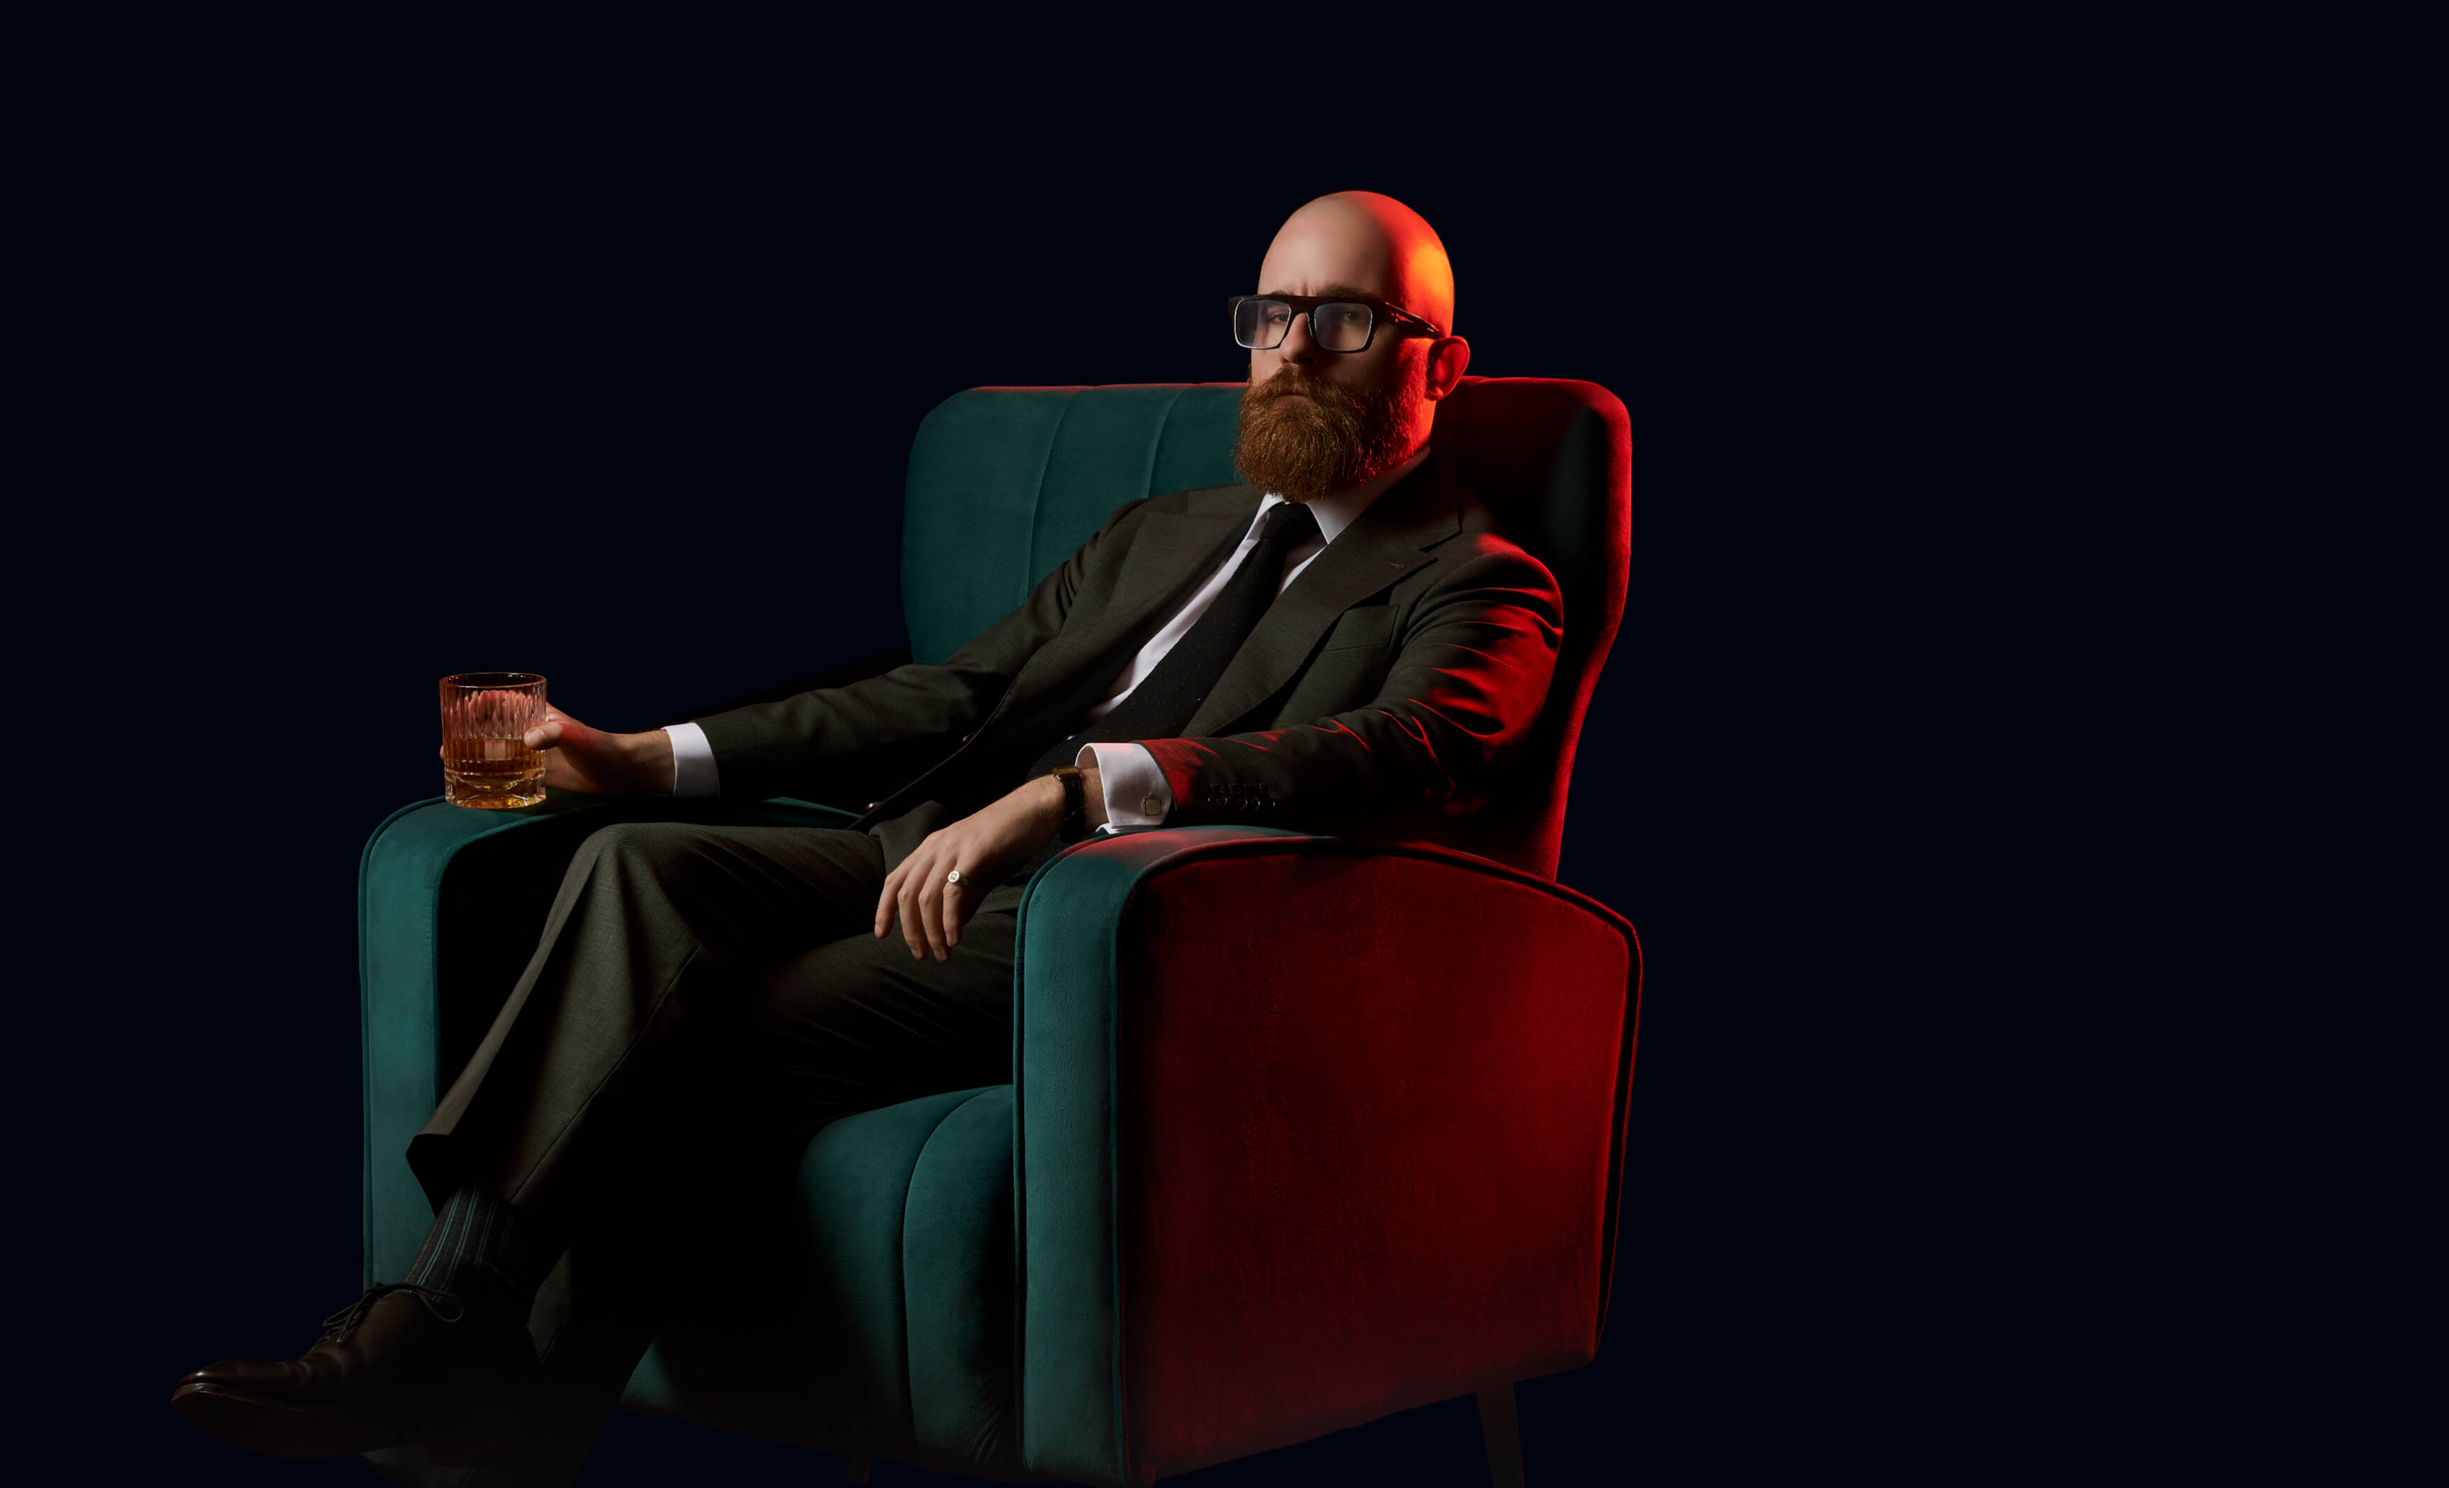
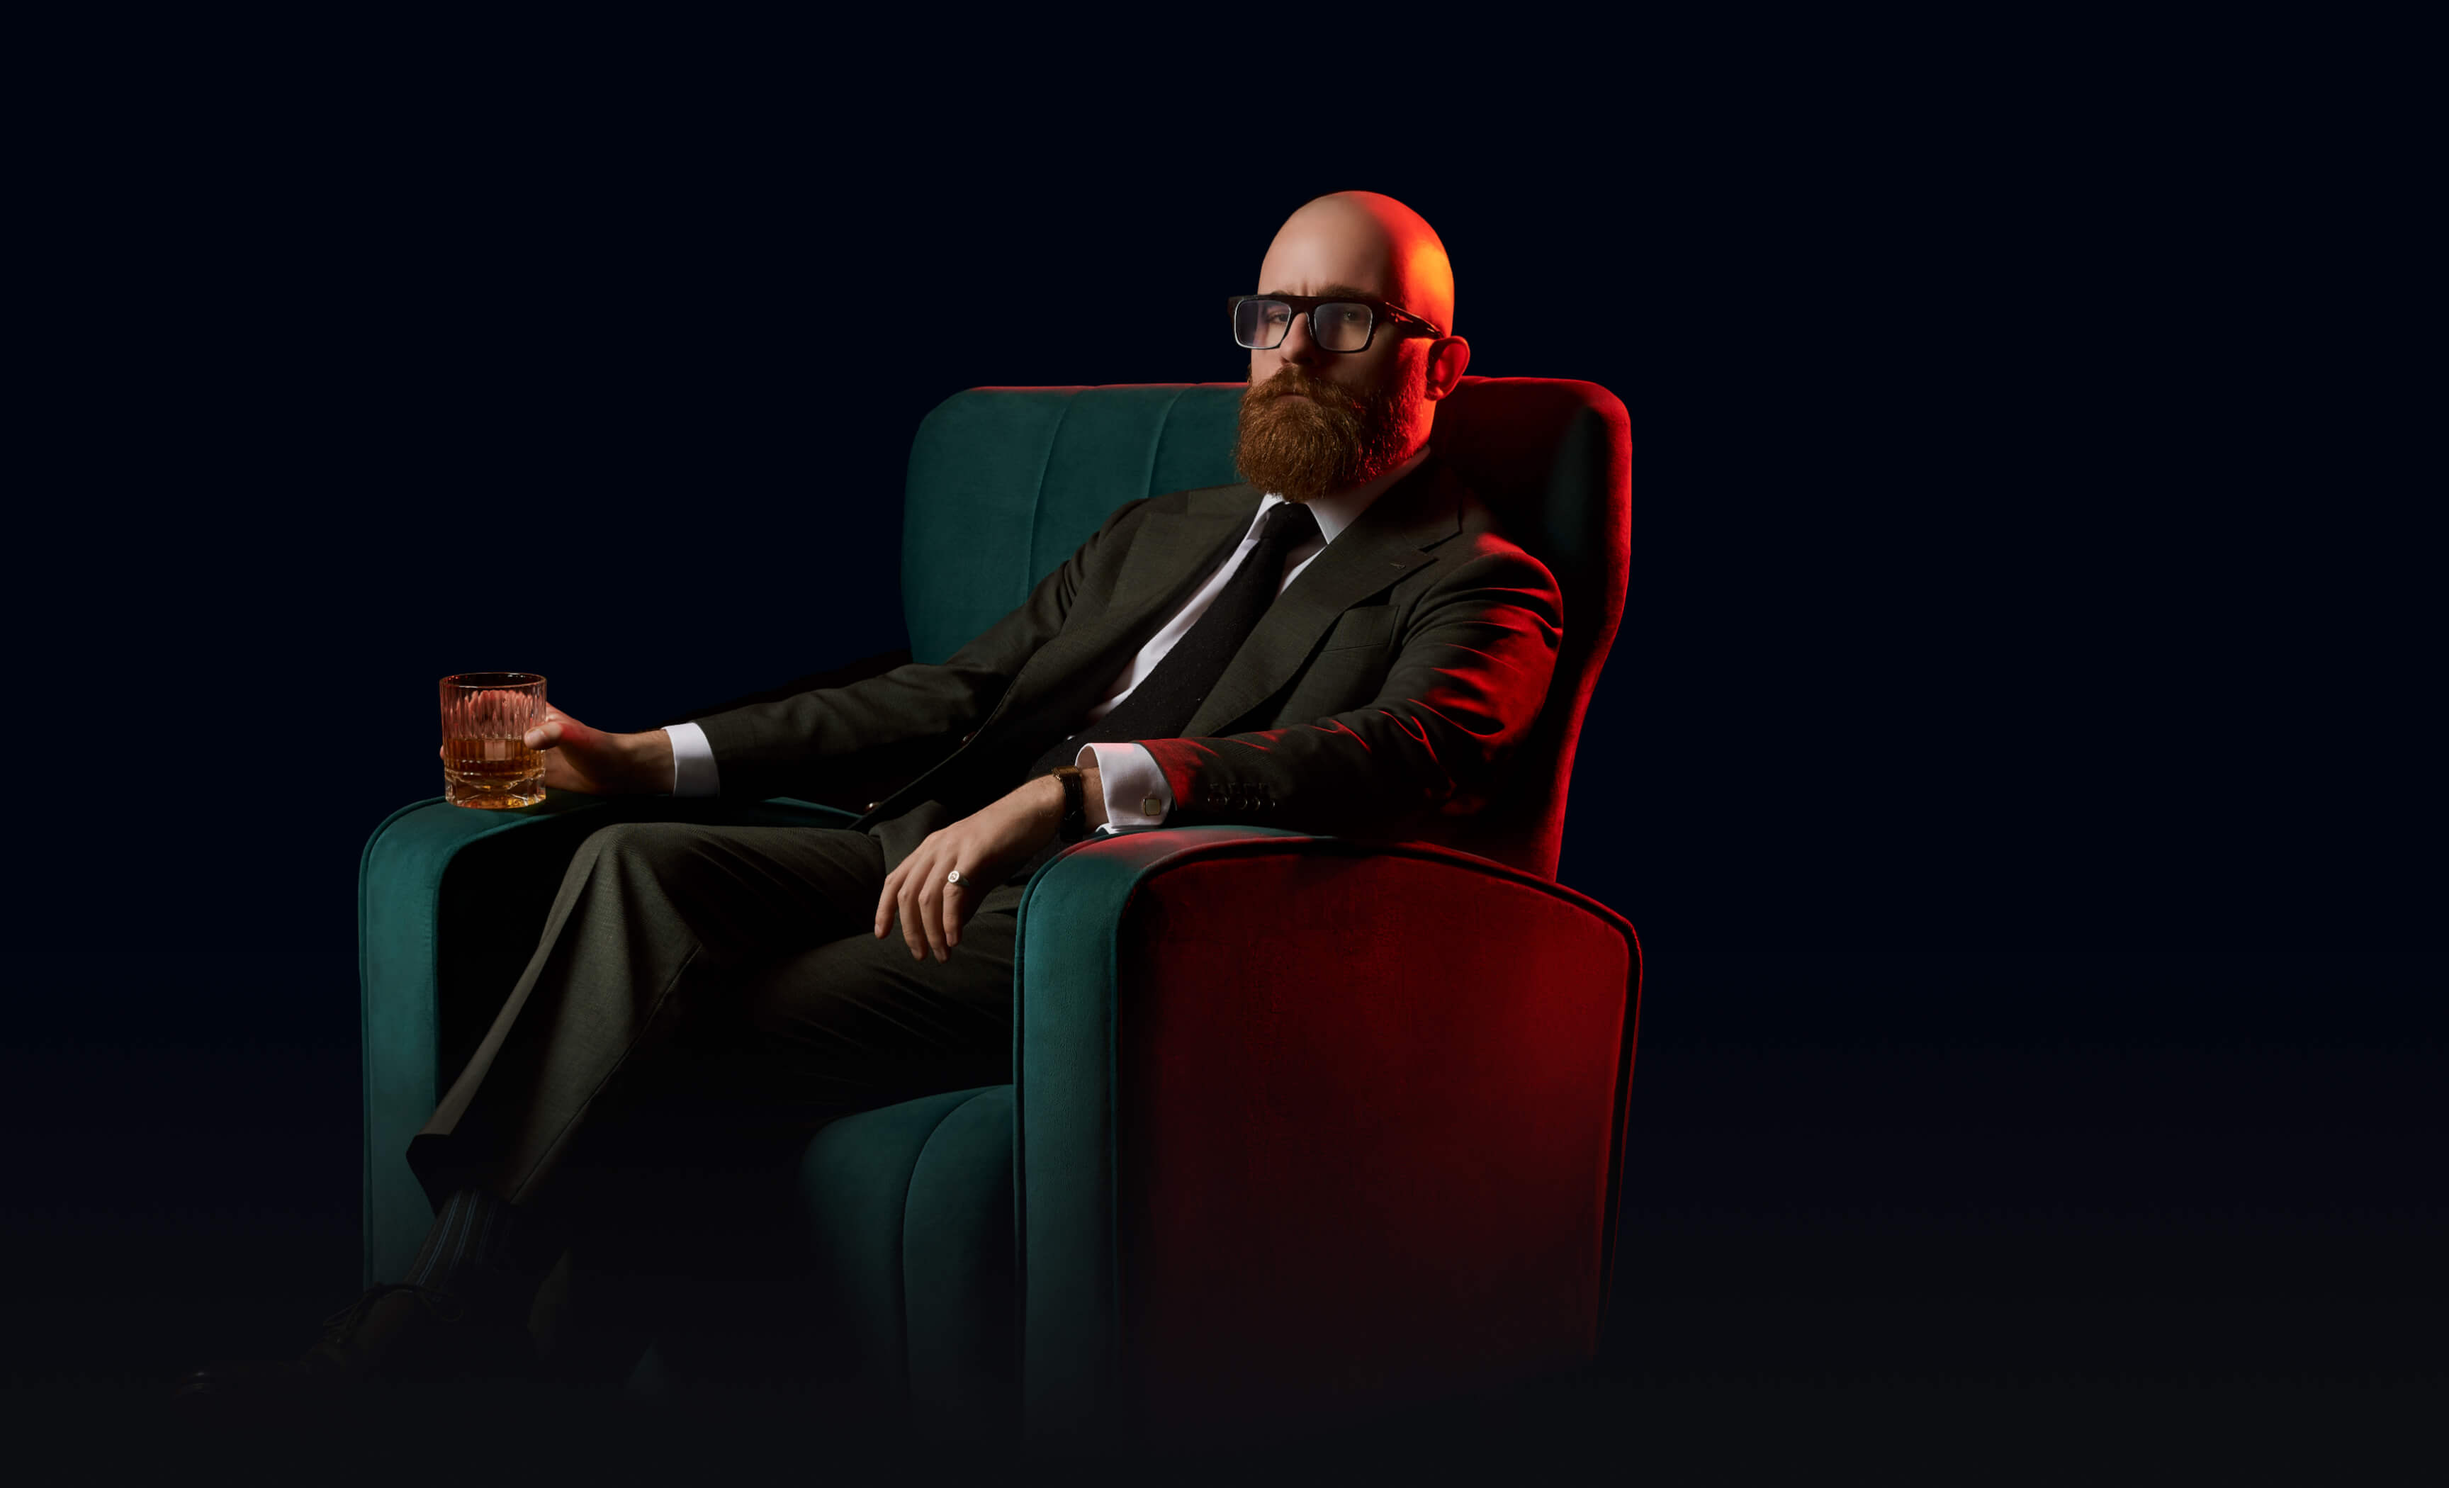
Update Hero Optimized

Changed region(s): [[0.4062, 0.7429, 0.6562, 0.9905], [0.3438, 0.8048, 0.375, 0.8357]]

diff --git a/src/components/global/Footer/script.jsx b/src/components/global/Footer/script.jsx
@@ -49,22 +49,25 @@ const FooterScript = () => {
             .to('.footer__title', { autoAlpha: 0, duration: 0 }, "<=0.1")
             .to('.footer__bg', { autoAlpha: 0, duration: .3, ease: 'linear' }, '<=0')
             .to('.footer', { background: 'rgba(255, 255, 255, 0)', duration: 0 }, "<=0")
-            .from('.home__hero-clone-bg', { filter: 'blur(4px)', scale: .6, duration: 4, transformOrigin: '20% 85%' }, "<=0")
+            .from('.home__hero-clone-bg', { filter: 'blur(4px)', autoAlpha: .4, rotationY: -12, rotateX: 10, rotateZ: -2, scale: .6, duration: 4, transformOrigin: '20% 85%' }, "<=0")
             .to('.footer__main-image', { filter: 'blur(12px)', duration: 1 }, "<=0")
             .to('.footer__main-image', { autoAlpha: 0, duration: .8 }, "<=2.2")
+
+
 
         let tlInfiniteText = gsap.timeline({
             scrollTrigger: {
                 trigger: '.home-footer-hero',
-                start: `bottom-=${cvUnit(120, 'vh')}px bottom`,
+                start: `bottom-=${cvUnit(100, 'vh')}px bottom`,
                 end: 'bottom bottom',
                 scrub: true
             }
         })
 
-        tlInfiniteText.to('.home__hero-clone-main', { autoAlpha: 1, duration: 1 })
-            .to('.home__hero-clone-bg-main-under', { autoAlpha: 1, duration: 1 }, "<=.8")
-            .to('.home__hero-clone-bg-main-trans', { autoAlpha: 0, duration: 1 }, "<=0.8")
+        tlInfiniteText
+            .to('.home__hero-clone-main', { autoAlpha: 1, duration: 1 })
+            .to('.home__hero-clone-bg-under', { autoAlpha: 1, duration: 1 }, "<=.8")
+            .to('.home__hero-clone-bg-main', { autoAlpha: 0, duration: 1 }, "<=0.8")
 
         onCleanup(() => {
             tl.kill();
